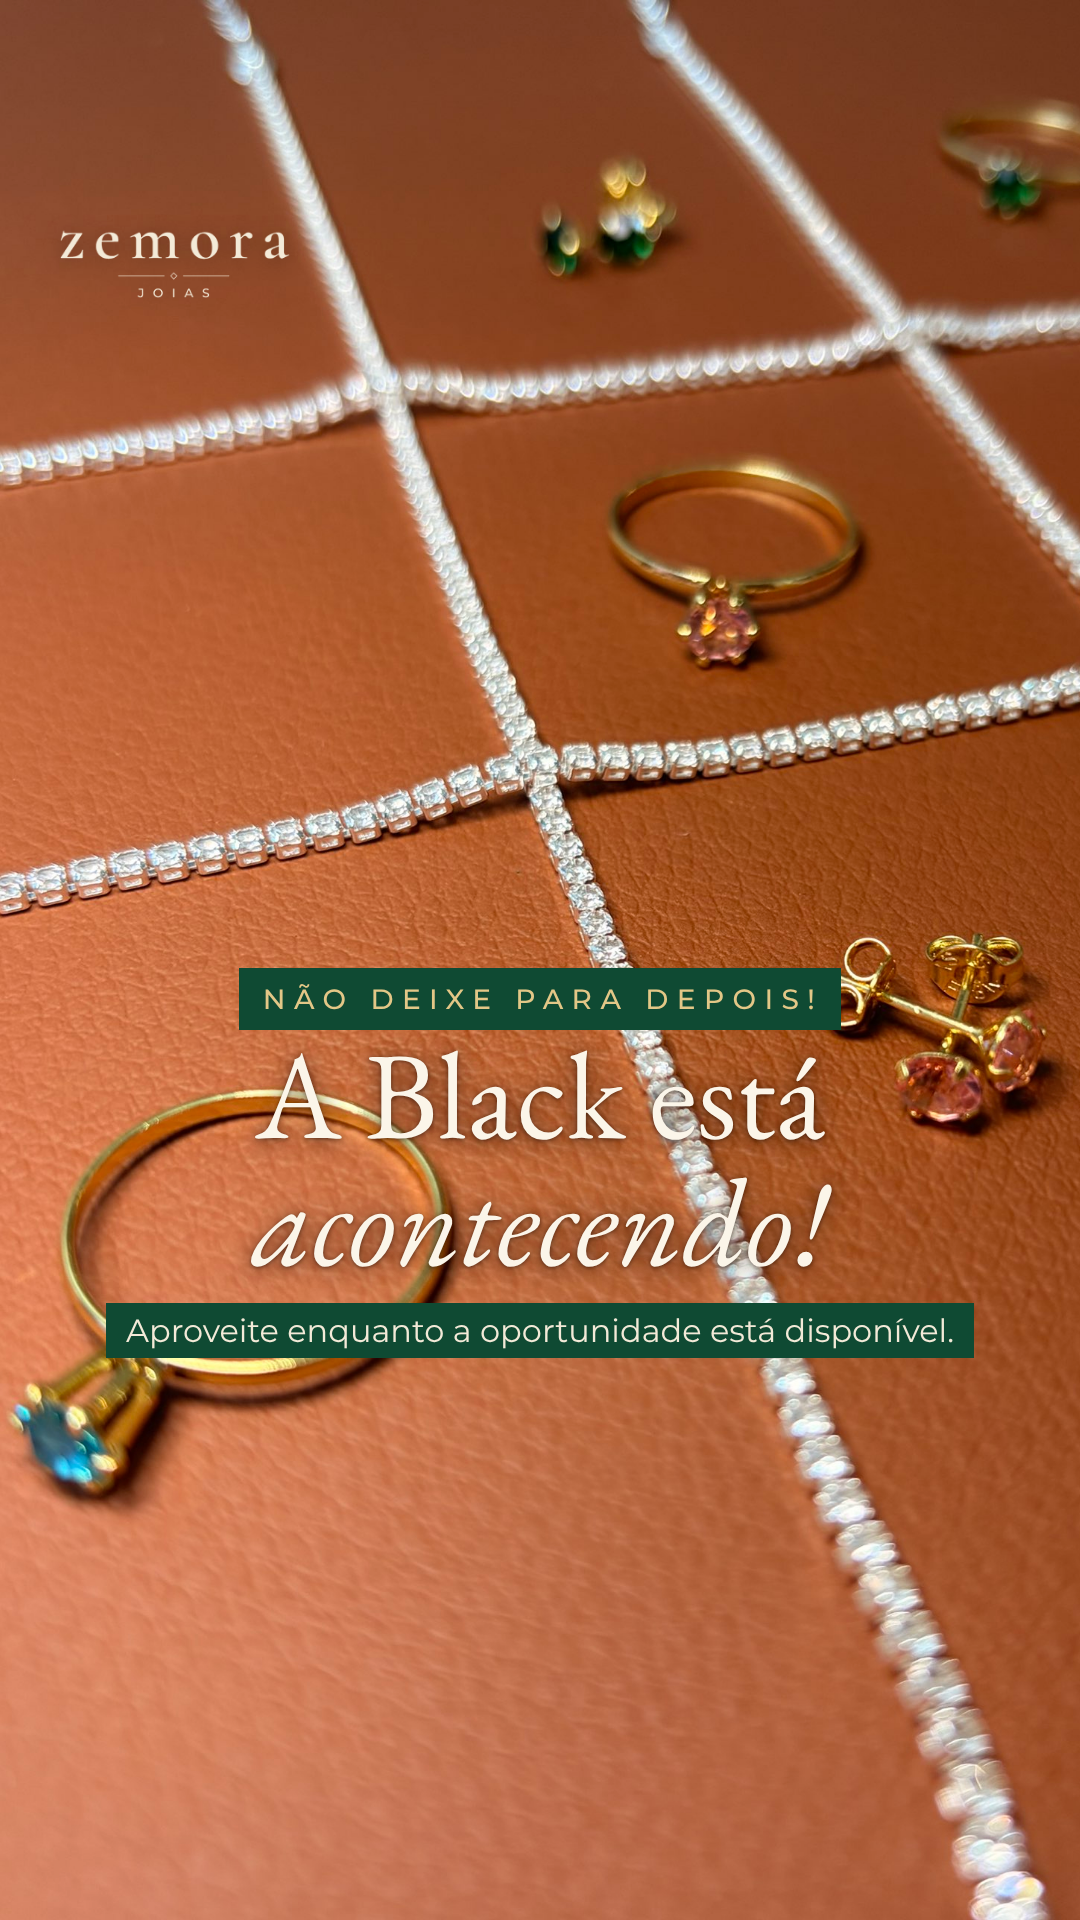
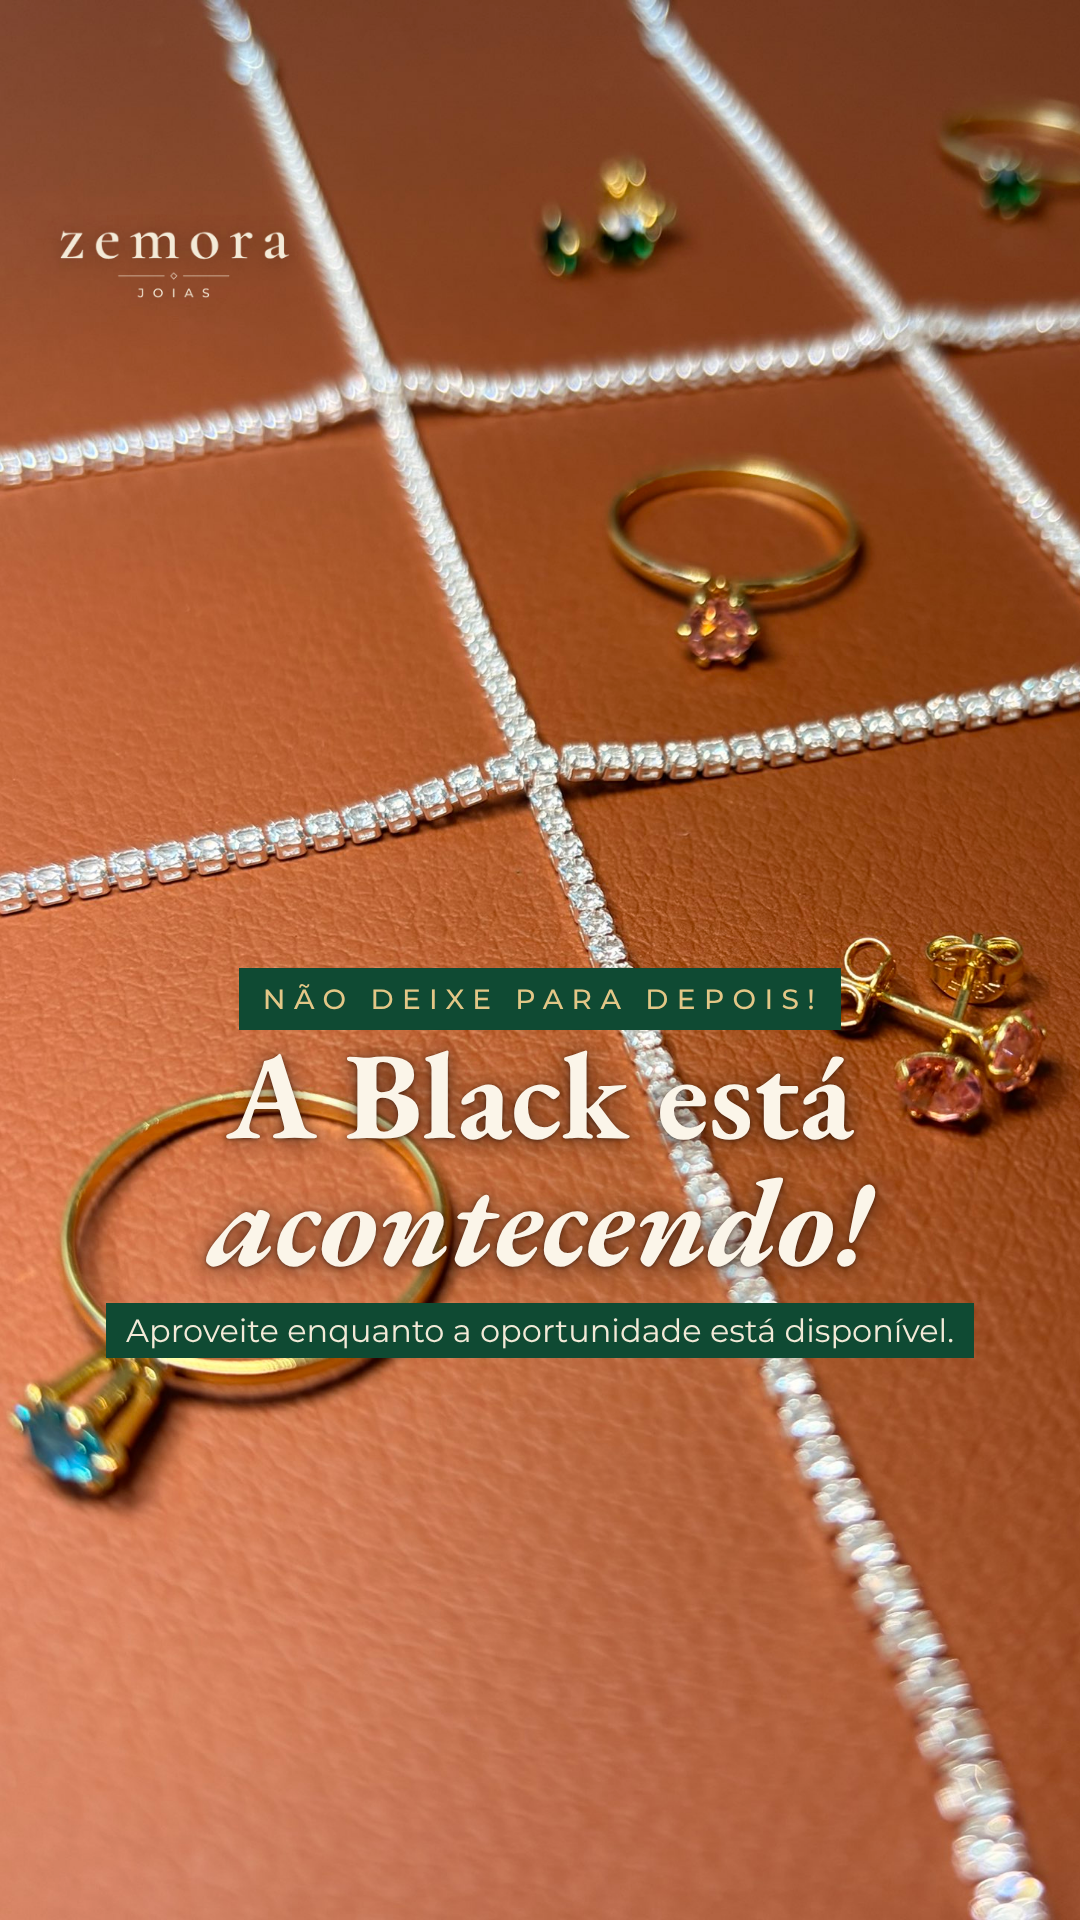
Card 'A Black está acontecendo!': título em serifa clássica bold
Claude-Session: https://claude.ai/code/session_01Ds4o6DPNY229NefAqtX4RB

Changed region(s): [[0.1833, 0.5312, 0.825, 0.6875]]

diff --git a/cards/overlay.html b/cards/overlay.html
@@ -1,5 +1,5 @@
 <!doctype html><html><head><meta charset="utf-8">
-<link href="https://fonts.googleapis.com/css2?family=EB+Garamond:ital,wght@0,400;1,400&family=Montserrat:wght@300;400;500&display=swap" rel="stylesheet">
+<link href="https://fonts.googleapis.com/css2?family=EB+Garamond:ital,wght@0,400;0,700;1,400;1,700&family=Montserrat:wght@300;400;500&display=swap" rel="stylesheet">
 <style>
 *{margin:0;padding:0;box-sizing:border-box}
 body{width:1080px;height:{{H}}px;overflow:hidden;background:#000}
@@ -11,7 +11,7 @@ body{width:1080px;height:{{H}}px;overflow:hidden;background:#000}
 .content{position:absolute;left:60px;right:60px;bottom:{{BOTTOM}}px;text-align:center;display:flex;flex-direction:column;align-items:center;gap:18px}
 .hl{background:#0f4a33;color:#f3ead8;display:inline;box-decoration-break:clone;-webkit-box-decoration-break:clone}
 .kick .hl{font:500 {{KSIZE}}px/1 Montserrat;letter-spacing:.3em;text-transform:uppercase;color:#e3c787;padding:14px 18px 14px 24px}
-h1{font:400 {{H1SIZE}}px/1.02 'EB Garamond';letter-spacing:-.3px;color:#fbf5e9;text-shadow:0 2px 22px rgba(40,15,5,.7),0 1px 4px rgba(40,15,5,.6)}
+h1{font:700 {{H1SIZE}}px/1.02 'EB Garamond';letter-spacing:-.3px;color:#fbf5e9;text-shadow:0 2px 22px rgba(40,15,5,.7),0 1px 4px rgba(40,15,5,.6)}
 
 h1 em{font-style:italic;color:#fbf5e9}
 p{font:400 {{PSIZE}}px/1.8 Montserrat;white-space:nowrap}
